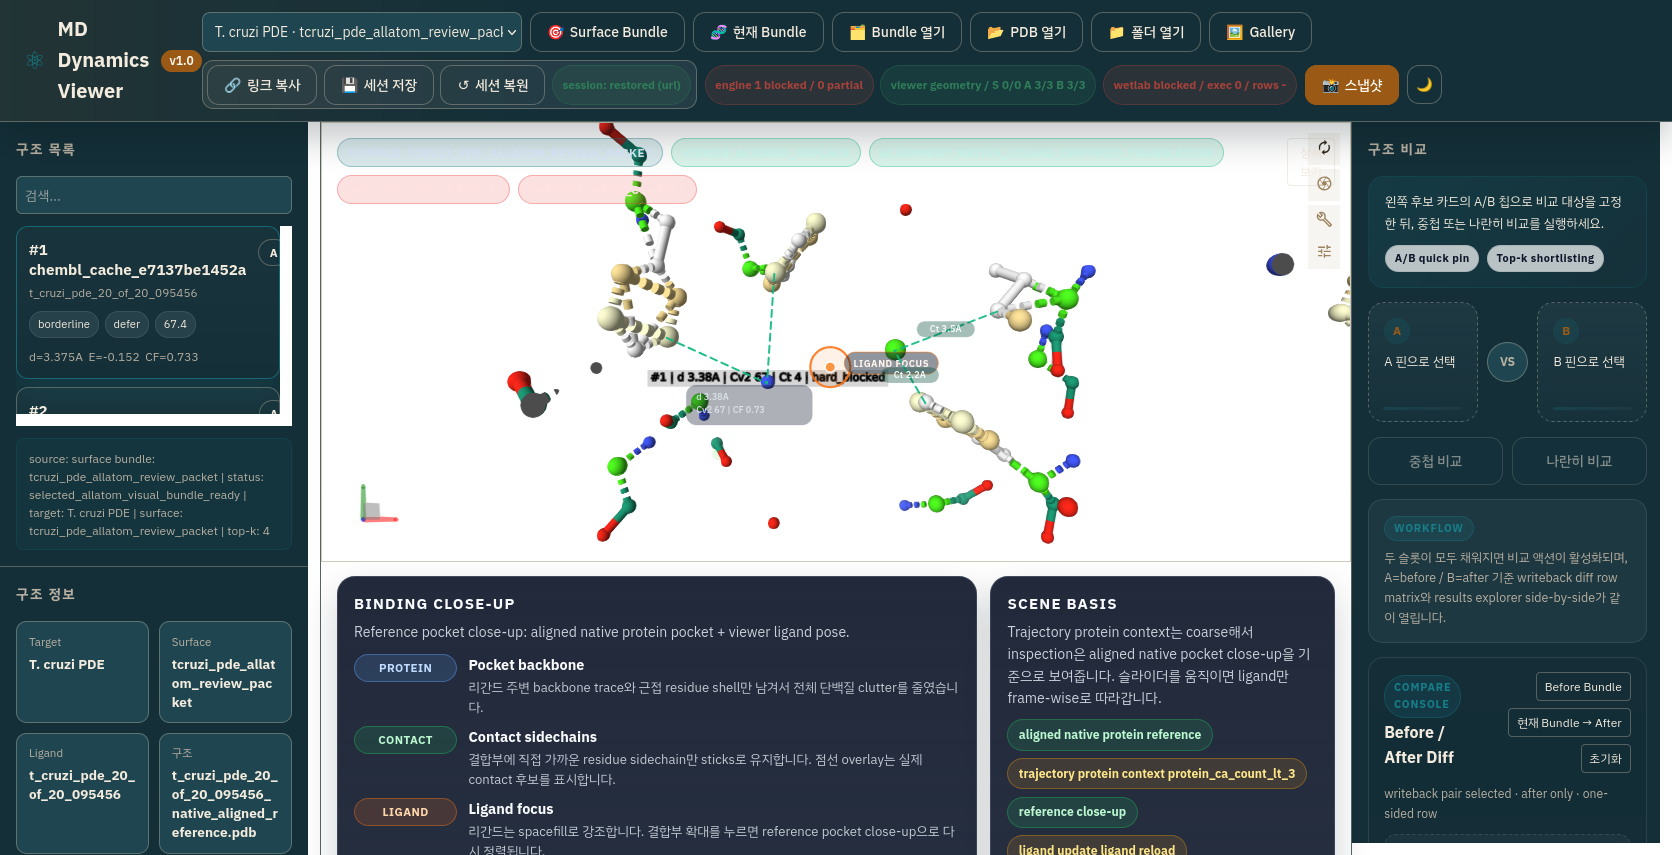
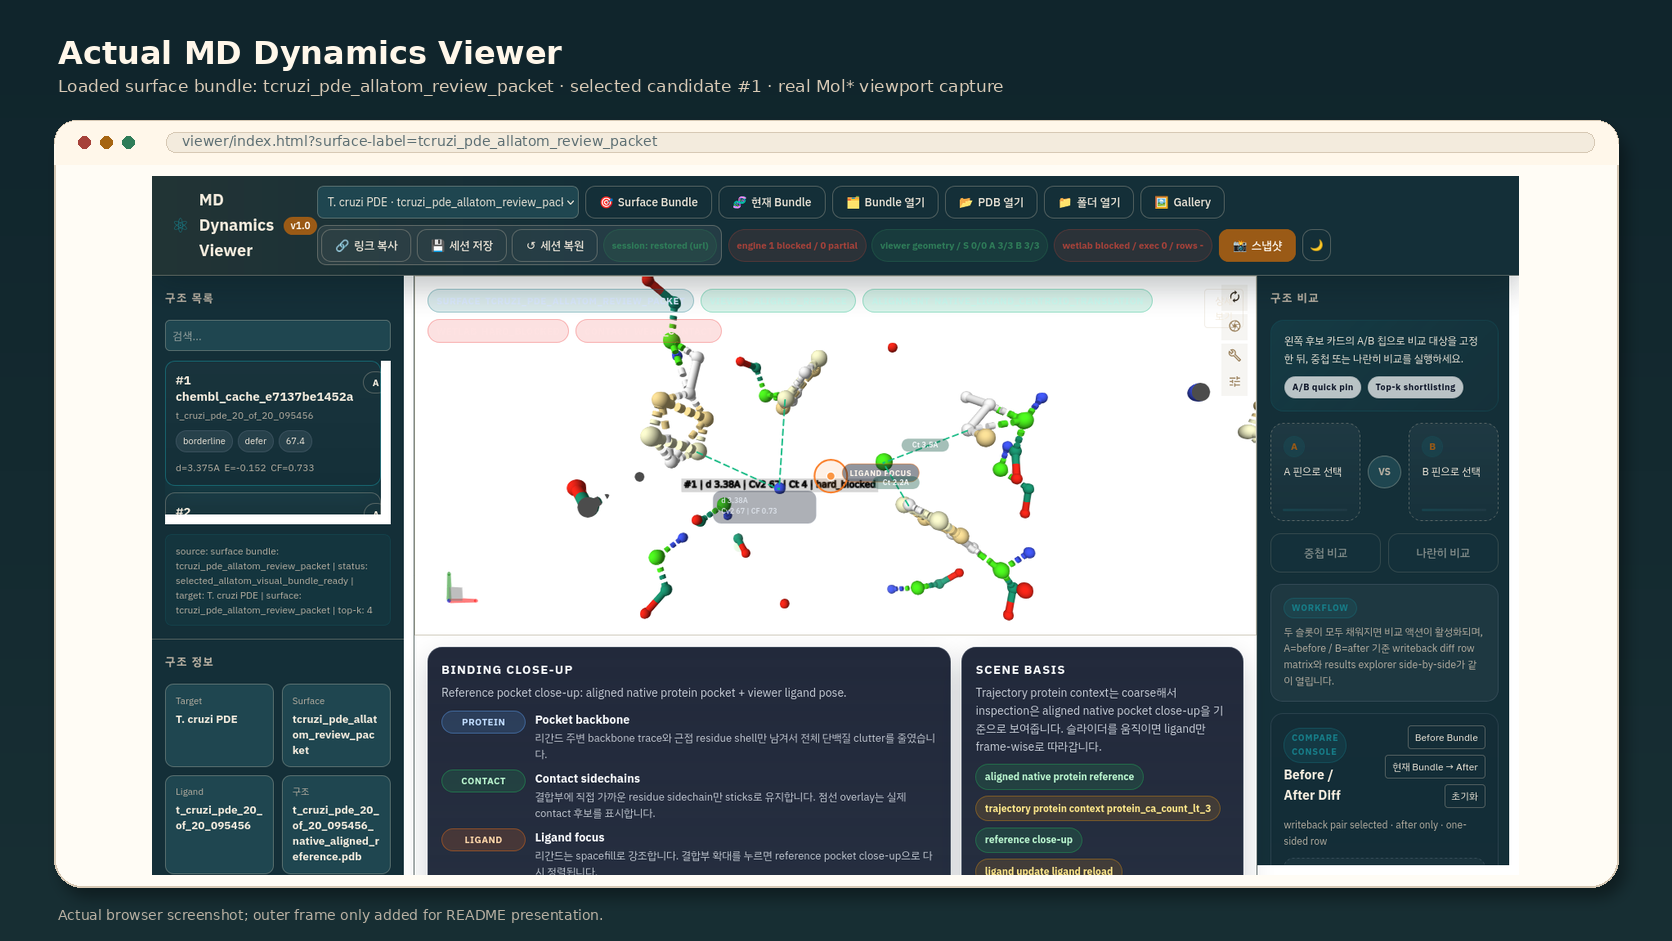
Polish README molecular figures

diff --git a/README.ko.md b/README.ko.md
@@ -100,7 +100,7 @@ python3 tools/build_local_delivery_verdict_gate.py
 
 ![T. cruzi PDE 3V94 chain B 실제 분자구조 렌더](docs/figures/tcruzi_pde_3v94_chainB_structure_actual_2026-05-15.png)
 
-첫 번째 이미지는 `surface-label=tcruzi_pde_allatom_review_packet`을 로드한 실제 `viewer/index.html` 브라우저 캡처입니다. 두 번째 이미지는 로컬 분석에 사용된 `runs/tcruzi_pde_strict_external_openmm/tcruzi_pde_3v94_chain_B.pdb`와 `runs/tcruzi_pde_strict_external_openmm/tcruzi_pde_chain_B_openmm_ca_md.npy`를 기반으로 만든 결정적 PyMOL 렌더입니다. 정확한 claim 경계와 수치는 아래 표를 기준으로 봅니다.
+첫 번째 이미지는 `surface-label=tcruzi_pde_allatom_review_packet`을 로드한 실제 `viewer/index.html` 브라우저 캡처를 README용으로 프레이밍한 것입니다. 두 번째 이미지는 로컬 분석에 사용된 `runs/tcruzi_pde_strict_external_openmm/tcruzi_pde_3v94_chain_B.pdb`와 `runs/tcruzi_pde_strict_external_openmm/tcruzi_pde_chain_B_openmm_ca_md.npy`를 기반으로 만든 AlphaFold 스타일의 결정적 PyMOL 렌더입니다. 정확한 claim 경계와 수치는 아래 표를 기준으로 봅니다.
 
 `runs/` 아래 runtime artifact는 로컬에만 남고 Git에서는 제외됩니다. 아래 표는 로컬에서 어떤 파일을 먼저 열어야 하는지와 현재 해석을 요약합니다.
 

diff --git a/README.md b/README.md
@@ -112,7 +112,7 @@ Updated 2026-05-15 KST.
 
 ![Actual T. cruzi PDE 3V94 chain B molecular structure render](docs/figures/tcruzi_pde_3v94_chainB_structure_actual_2026-05-15.png)
 
-The first image is an actual browser capture of `viewer/index.html` loaded with `surface-label=tcruzi_pde_allatom_review_packet`. The second image is a deterministic PyMOL render from the protein and trajectory files used in the local analysis: `runs/tcruzi_pde_strict_external_openmm/tcruzi_pde_3v94_chain_B.pdb` and `runs/tcruzi_pde_strict_external_openmm/tcruzi_pde_chain_B_openmm_ca_md.npy`. The tables below remain the source of truth for exact claim boundaries.
+The first image is an actual browser capture of `viewer/index.html` loaded with `surface-label=tcruzi_pde_allatom_review_packet`, framed for README presentation. The second image is an AlphaFold-style deterministic PyMOL render from the protein and trajectory files used in the local analysis: `runs/tcruzi_pde_strict_external_openmm/tcruzi_pde_3v94_chain_B.pdb` and `runs/tcruzi_pde_strict_external_openmm/tcruzi_pde_chain_B_openmm_ca_md.npy`. The tables below remain the source of truth for exact claim boundaries.
 
 Runtime artifacts under `runs/` are local and intentionally ignored by Git. The table below names the local artifact to inspect, the current headline number, and the safe interpretation for GitHub readers.
 
